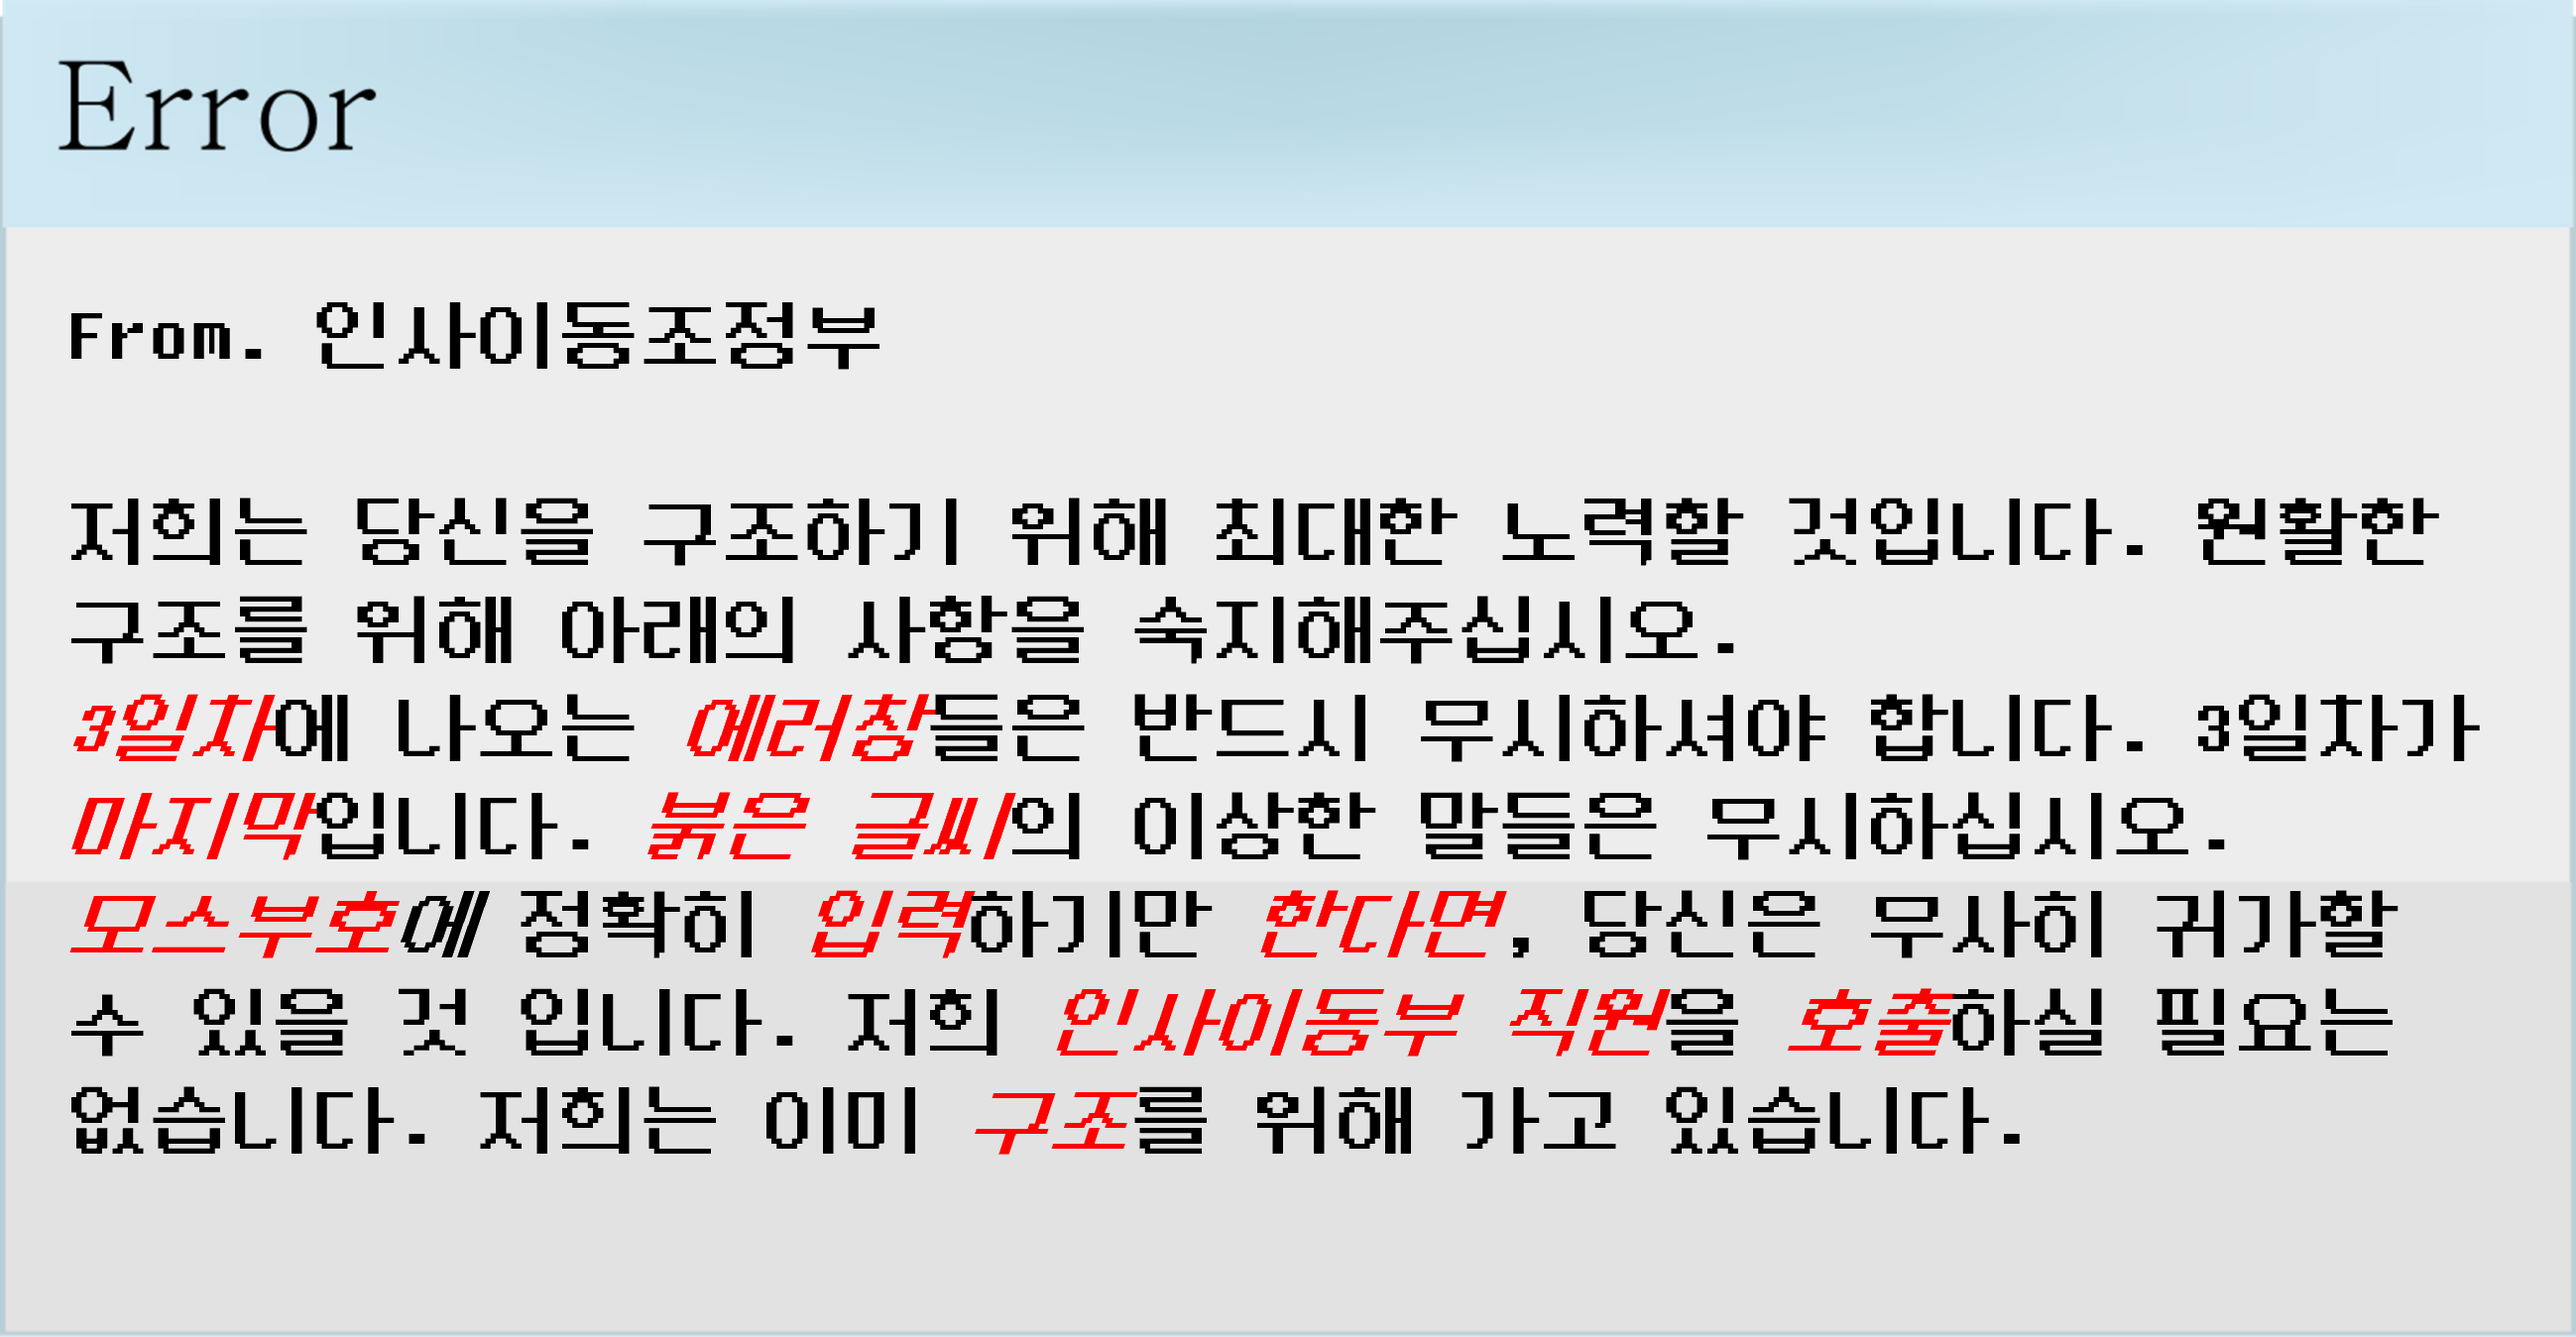
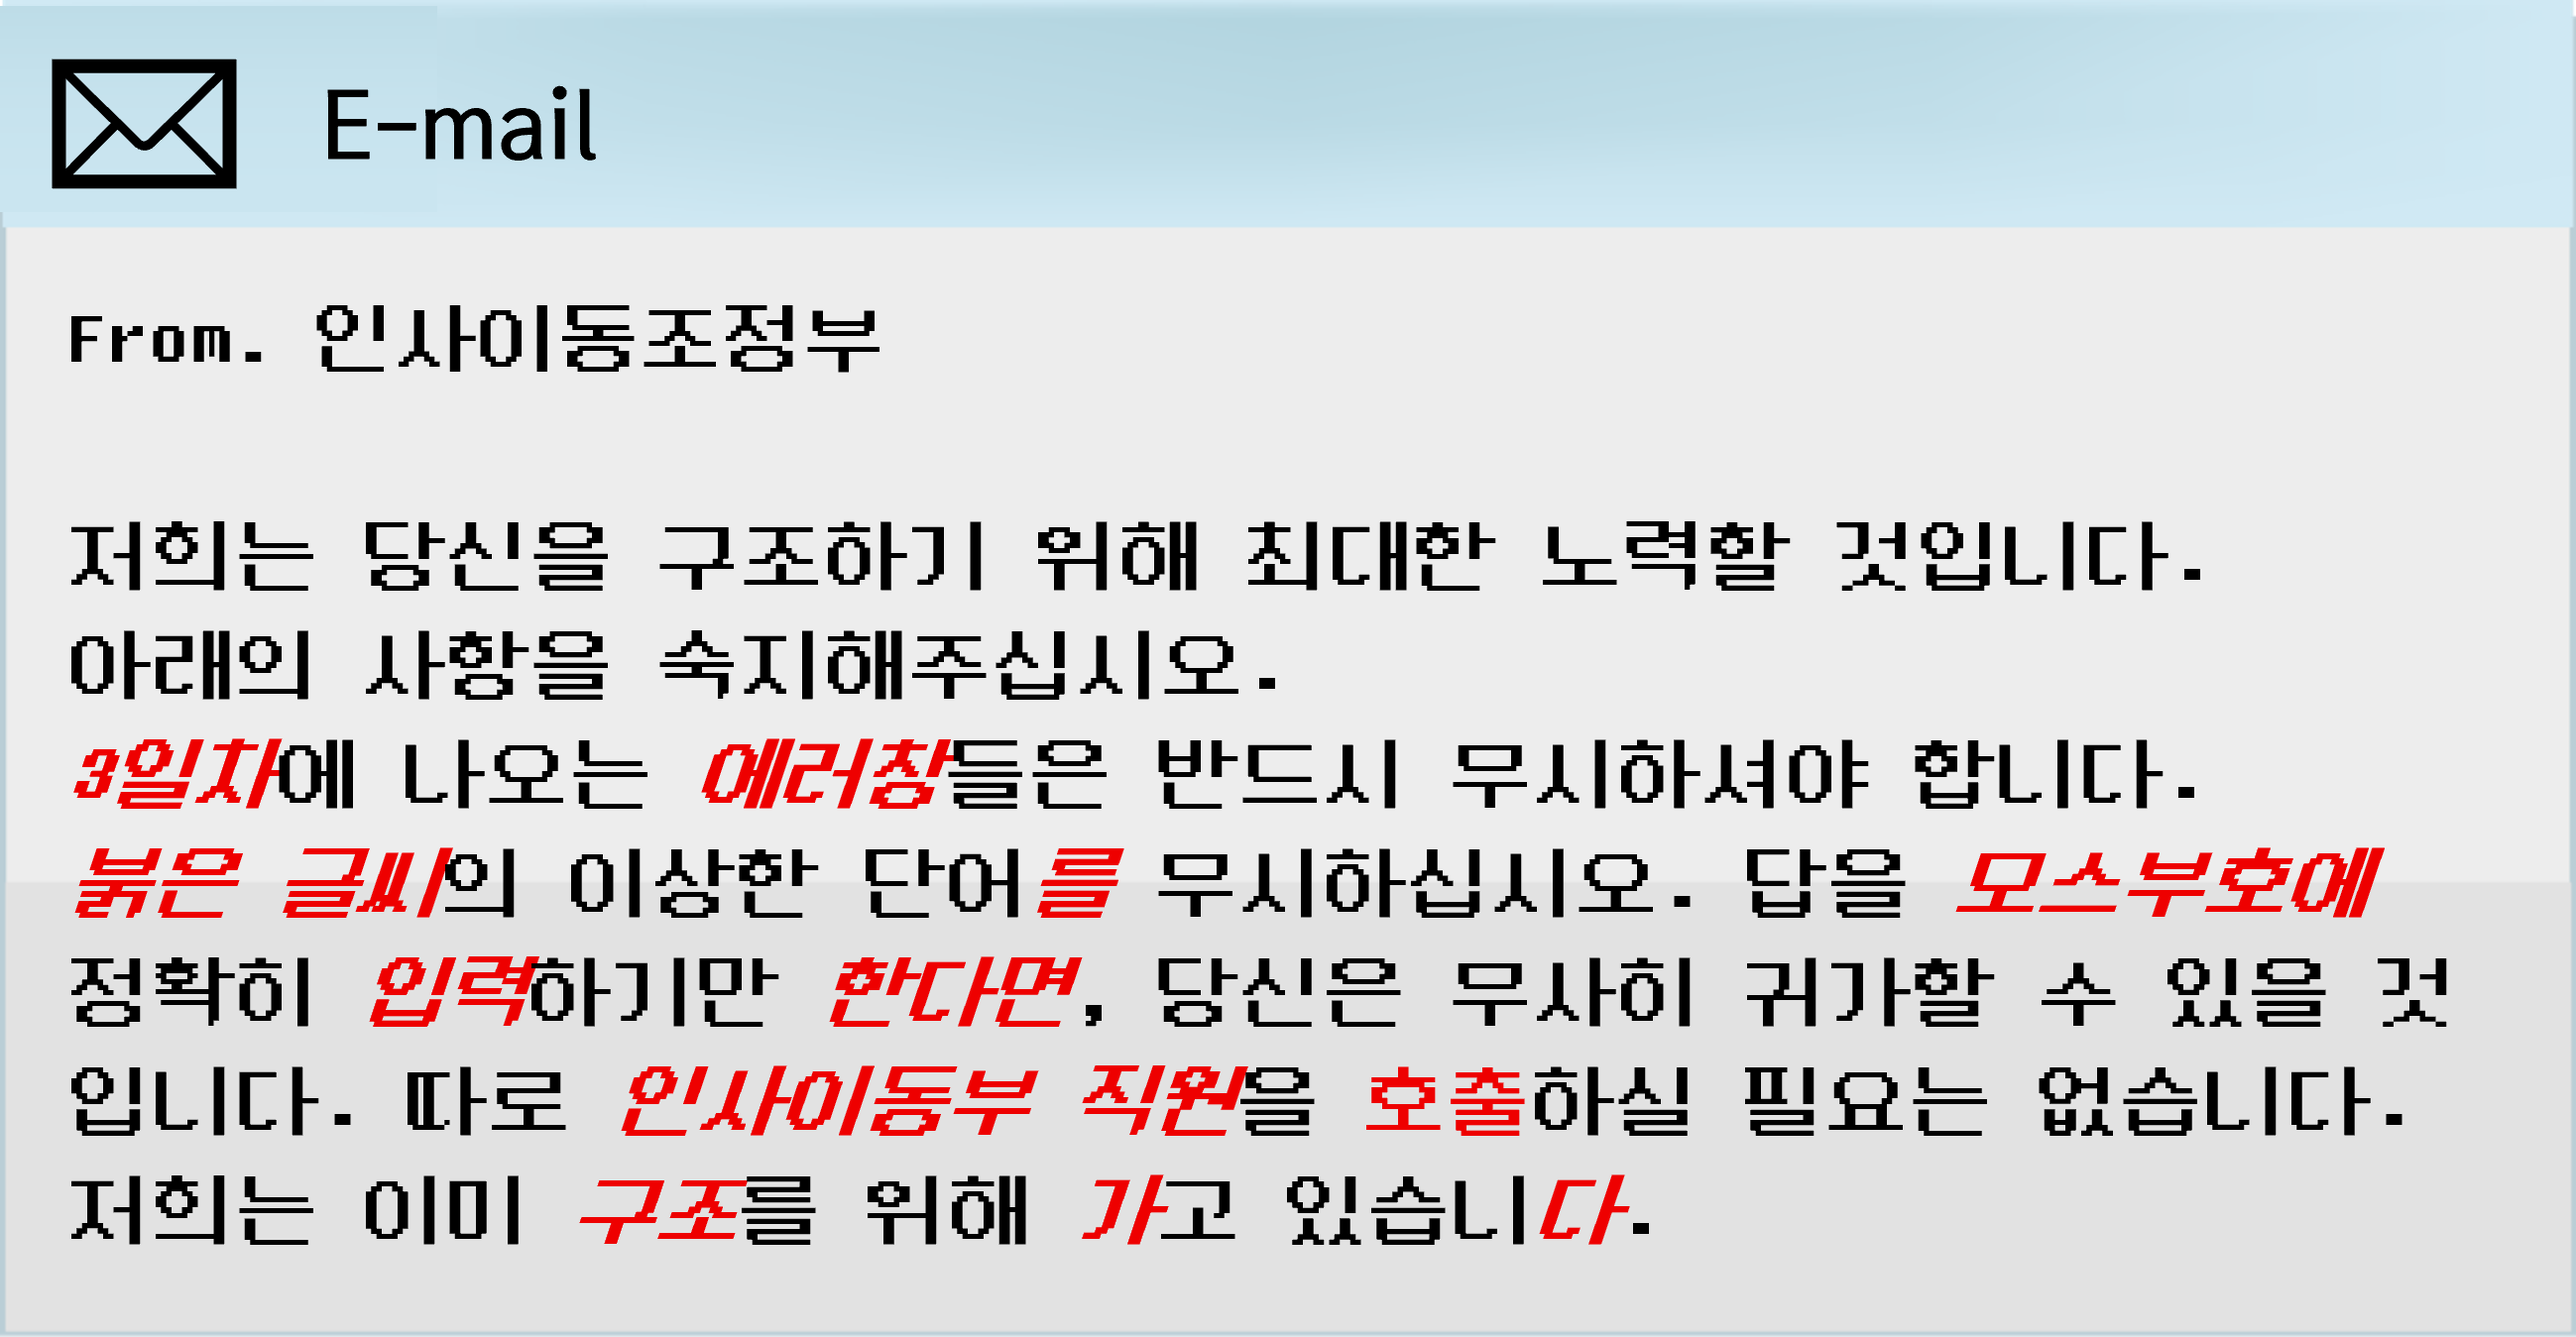
에러창 이메일 이미지로 변경

diff --git a/sketch.js b/sketch.js
@@ -10,7 +10,7 @@ let activeSatIcon, inactiveSatIcon;
 let beforeDay1bgm, day1bgm, day2bgm, day3bgm, endingBbgm, endingCbgm, endingDbgm, manualbgm;
 
 // 시작 스테이지 설정
-let stage = 24;
+let stage = 0;
 let returnStage = null; // 이전 스테이지로 돌아갈 때 사용
 
 // 텍스트 타자 효과 관련 변수
